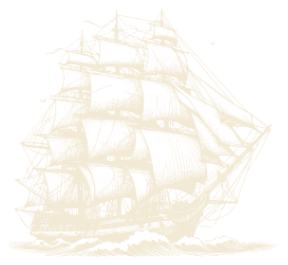
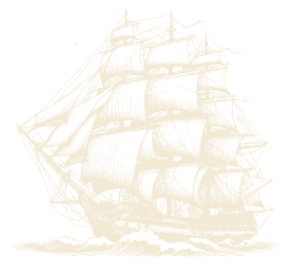
Replace watercolor mug clink with cream line-art toast, sail ship left to right.

diff --git a/src/index.css b/src/index.css
@@ -884,35 +884,52 @@ select {
 
 .shows-cheers {
   position: absolute;
-  top: clamp(6.5rem, 14vh, 9.5rem);
+  top: clamp(5.5rem, 12vh, 8.5rem);
   left: clamp(0.35rem, 1.5vw, 1.25rem);
   z-index: 2;
-  display: flex;
-  align-items: flex-end;
-  justify-content: center;
-  gap: 0;
-  width: clamp(11.5rem, 24vw, 16.5rem);
+  display: grid;
+  grid-template-columns: 1fr 1fr;
+  align-items: end;
+  width: clamp(10.5rem, 22vw, 14.5rem);
+  pointer-events: none;
+  filter: drop-shadow(0 10px 18px rgba(0, 0, 0, 0.45));
+}
+
+.shows-cheers__spark-layer {
+  position: absolute;
+  inset: 0;
+  width: 100%;
+  height: 100%;
+  overflow: visible;
   pointer-events: none;
 }
 
-.shows-cheers__mug {
-  width: 52%;
+.shows-cheers__pint {
+  width: 108%;
   height: auto;
   display: block;
-  filter: drop-shadow(0 8px 16px rgba(0, 0, 0, 0.4));
+  overflow: visible;
   will-change: transform;
 }
 
-.shows-cheers__mug--left {
-  transform-origin: 70% 90%;
-  margin-right: -0.35rem;
-  animation: mug-clink-left 3.6s cubic-bezier(0.45, 0.05, 0.25, 1) infinite;
+.shows-cheers__pint--left {
+  justify-self: end;
+  margin-right: -12%;
+  transform-origin: 75% 90%;
+  animation: cheers-toast-left 4.8s cubic-bezier(0.4, 0.05, 0.2, 1) infinite;
 }
 
-.shows-cheers__mug--right {
-  transform-origin: 30% 90%;
-  margin-left: -0.35rem;
-  animation: mug-clink-right 3.6s cubic-bezier(0.45, 0.05, 0.25, 1) infinite;
+.shows-cheers__pint--right {
+  justify-self: start;
+  margin-left: -12%;
+  transform-origin: 25% 90%;
+  animation: cheers-toast-right 4.8s cubic-bezier(0.4, 0.05, 0.2, 1) infinite;
+}
+
+.shows-cheers__sparks {
+  transform-origin: 110px 50px;
+  opacity: 0;
+  animation: cheers-spark 4.8s ease-out infinite;
 }
 
 .shows-page > .page-hero,
@@ -1476,26 +1493,26 @@ select {
 
 @keyframes ship-sail {
   0% {
-    transform: translate(92vw, 4%) rotate(-3deg);
+    transform: translate(-18vw, 4%) rotate(3deg);
     opacity: 0;
   }
   6% {
     opacity: 0.42;
   }
   25% {
-    transform: translate(68vw, 26%) rotate(2deg);
+    transform: translate(16vw, 26%) rotate(-2deg);
   }
   50% {
-    transform: translate(42vw, 52%) rotate(-2deg);
+    transform: translate(42vw, 52%) rotate(2deg);
   }
   75% {
-    transform: translate(16vw, 78%) rotate(1.5deg);
+    transform: translate(68vw, 78%) rotate(-1.5deg);
   }
   92% {
     opacity: 0.42;
   }
   100% {
-    transform: translate(-18vw, 108%) rotate(-3deg);
+    transform: translate(92vw, 108%) rotate(3deg);
     opacity: 0;
   }
 }
@@ -1527,43 +1544,64 @@ select {
   }
 }
 
-@keyframes mug-clink-left {
+@keyframes cheers-toast-left {
   0%,
-  18% {
-    transform: rotate(-14deg) translate3d(0, 0, 0);
+  12% {
+    transform: rotate(-10deg) translate3d(-4px, 2px, 0);
   }
-  42% {
-    transform: rotate(-3deg) translate3d(8%, -2%, 0);
+  38% {
+    transform: rotate(-3deg) translate3d(4px, -4px, 0);
   }
-  50% {
-    transform: rotate(1deg) translate3d(12%, -3%, 0);
+  46% {
+    transform: rotate(0deg) translate3d(7px, -6px, 0);
   }
-  58% {
-    transform: rotate(-2deg) translate3d(7%, -1%, 0);
+  52% {
+    transform: rotate(-1deg) translate3d(5px, -4px, 0);
   }
-  72%,
+  68%,
   100% {
-    transform: rotate(-14deg) translate3d(0, 0, 0);
+    transform: rotate(-10deg) translate3d(-4px, 2px, 0);
   }
 }
 
-@keyframes mug-clink-right {
+@keyframes cheers-toast-right {
   0%,
-  18% {
-    transform: rotate(14deg) translate3d(0, 0, 0);
+  12% {
+    transform: rotate(10deg) translate3d(4px, 2px, 0);
   }
-  42% {
-    transform: rotate(3deg) translate3d(-8%, -2%, 0);
+  38% {
+    transform: rotate(3deg) translate3d(-4px, -4px, 0);
   }
-  50% {
-    transform: rotate(-1deg) translate3d(-12%, -3%, 0);
+  46% {
+    transform: rotate(0deg) translate3d(-7px, -6px, 0);
   }
-  58% {
-    transform: rotate(2deg) translate3d(-7%, -1%, 0);
+  52% {
+    transform: rotate(1deg) translate3d(-5px, -4px, 0);
   }
-  72%,
+  68%,
   100% {
-    transform: rotate(14deg) translate3d(0, 0, 0);
+    transform: rotate(10deg) translate3d(4px, 2px, 0);
+  }
+}
+
+@keyframes cheers-spark {
+  0%,
+  42% {
+    opacity: 0;
+    transform: scale(0.35);
+  }
+  46% {
+    opacity: 1;
+    transform: scale(1.15);
+  }
+  52% {
+    opacity: 0.75;
+    transform: scale(1);
+  }
+  62%,
+  100% {
+    opacity: 0;
+    transform: scale(1.35);
   }
 }
 
@@ -1607,8 +1645,8 @@ select {
   .media-ship__img {
     animation: none !important;
     top: 8%;
-    right: 4%;
-    left: auto;
+    left: 4%;
+    right: auto;
     opacity: 0.28;
     transform: none;
   }
@@ -1618,8 +1656,22 @@ select {
     animation: none !important;
   }
 
-  .shows-cheers__mug--left,
-  .shows-cheers__mug--right {
+  .shows-cheers__pint--left,
+  .shows-cheers__pint--right,
+  .shows-cheers__sparks {
     animation: none !important;
+  }
+
+  .shows-cheers__pint--left {
+    transform: rotate(-6deg);
+  }
+
+  .shows-cheers__pint--right {
+    transform: rotate(6deg);
+  }
+
+  .shows-cheers__sparks {
+    opacity: 0.55;
+    transform: scale(0.9);
   }
 }

diff --git a/src/components/CheersToast.tsx b/src/components/CheersToast.tsx
@@ -1,0 +1,138 @@
+/** Decorative toasting pints — cream line art to match the Media ship. */
+export function CheersToast() {
+  return (
+    <div className="shows-cheers" aria-hidden="true">
+      <svg
+        className="shows-cheers__spark-layer"
+        viewBox="0 0 220 160"
+        width="220"
+        height="160"
+        fill="none"
+        xmlns="http://www.w3.org/2000/svg"
+      >
+        <g className="shows-cheers__sparks">
+          <circle cx="110" cy="52" r="2.2" fill="#f3ead6" />
+          <circle cx="98" cy="44" r="1.4" fill="#e4c76b" />
+          <circle cx="122" cy="46" r="1.5" fill="#e4c76b" />
+          <circle cx="104" cy="58" r="1.1" fill="#b8e0b8" />
+          <circle cx="116" cy="60" r="1.1" fill="#b8e0b8" />
+          <path
+            d="M110 38 L111.2 44 L117 45 L112.4 48.5 L114 54 L110 50.5 L106 54 L107.6 48.5 L103 45 L108.8 44 Z"
+            fill="#e4c76b"
+            opacity="0.9"
+          />
+        </g>
+      </svg>
+
+      <svg
+        className="shows-cheers__pint shows-cheers__pint--left"
+        viewBox="0 0 120 160"
+        width="120"
+        height="160"
+        fill="none"
+        xmlns="http://www.w3.org/2000/svg"
+      >
+        <defs>
+          <linearGradient id="cheers-beer-l" x1="0" y1="0" x2="0" y2="1">
+            <stop offset="0%" stopColor="#e8c76a" stopOpacity="0.55" />
+            <stop offset="55%" stopColor="#c9a84a" stopOpacity="0.4" />
+            <stop offset="100%" stopColor="#8a7340" stopOpacity="0.35" />
+          </linearGradient>
+          <linearGradient id="cheers-foam-l" x1="0" y1="0" x2="0" y2="1">
+            <stop offset="0%" stopColor="#f7f1e2" stopOpacity="0.95" />
+            <stop offset="100%" stopColor="#e8d9b0" stopOpacity="0.55" />
+          </linearGradient>
+        </defs>
+        <path
+          d="M42 58 C42 58 44 118 48 128 C52 138 62 142 74 142 C86 142 96 138 100 128 C104 118 106 58 106 58 Z"
+          fill="url(#cheers-beer-l)"
+        />
+        <path
+          d="M40 52 C46 42 58 40 68 44 C74 38 86 38 96 44 C104 48 108 54 108 54 L40 54 Z"
+          fill="url(#cheers-foam-l)"
+        />
+        <path
+          d="M40 50 L46 128 C48 138 58 146 74 146 C90 146 100 138 102 128 L108 50"
+          stroke="#f3ead6"
+          strokeWidth="2.2"
+          strokeLinecap="round"
+          strokeLinejoin="round"
+        />
+        <path
+          d="M38 50 C48 46 64 44 74 44 C84 44 100 46 110 50"
+          stroke="#f3ead6"
+          strokeWidth="2.2"
+          strokeLinecap="round"
+        />
+        <path
+          d="M40 68 C24 72 22 108 40 114"
+          stroke="#f3ead6"
+          strokeWidth="2.2"
+          strokeLinecap="round"
+        />
+        <path
+          d="M54 62 L56 126"
+          stroke="#f3ead6"
+          strokeWidth="1.2"
+          strokeLinecap="round"
+          opacity="0.35"
+        />
+      </svg>
+
+      <svg
+        className="shows-cheers__pint shows-cheers__pint--right"
+        viewBox="0 0 120 160"
+        width="120"
+        height="160"
+        fill="none"
+        xmlns="http://www.w3.org/2000/svg"
+      >
+        <defs>
+          <linearGradient id="cheers-beer-r" x1="0" y1="0" x2="0" y2="1">
+            <stop offset="0%" stopColor="#e8c76a" stopOpacity="0.55" />
+            <stop offset="55%" stopColor="#c9a84a" stopOpacity="0.4" />
+            <stop offset="100%" stopColor="#8a7340" stopOpacity="0.35" />
+          </linearGradient>
+          <linearGradient id="cheers-foam-r" x1="0" y1="0" x2="0" y2="1">
+            <stop offset="0%" stopColor="#f7f1e2" stopOpacity="0.95" />
+            <stop offset="100%" stopColor="#e8d9b0" stopOpacity="0.55" />
+          </linearGradient>
+        </defs>
+        <path
+          d="M14 58 C14 58 16 118 20 128 C24 138 34 142 46 142 C58 142 68 138 72 128 C76 118 78 58 78 58 Z"
+          fill="url(#cheers-beer-r)"
+        />
+        <path
+          d="M12 52 C18 42 30 40 40 44 C46 38 58 38 68 44 C76 48 80 54 80 54 L12 54 Z"
+          fill="url(#cheers-foam-r)"
+        />
+        <path
+          d="M12 50 L18 128 C20 138 30 146 46 146 C62 146 72 138 74 128 L80 50"
+          stroke="#f3ead6"
+          strokeWidth="2.2"
+          strokeLinecap="round"
+          strokeLinejoin="round"
+        />
+        <path
+          d="M10 50 C20 46 36 44 46 44 C56 44 72 46 82 50"
+          stroke="#f3ead6"
+          strokeWidth="2.2"
+          strokeLinecap="round"
+        />
+        <path
+          d="M80 68 C96 72 98 108 80 114"
+          stroke="#f3ead6"
+          strokeWidth="2.2"
+          strokeLinecap="round"
+        />
+        <path
+          d="M64 62 L62 126"
+          stroke="#f3ead6"
+          strokeWidth="1.2"
+          strokeLinecap="round"
+          opacity="0.35"
+        />
+      </svg>
+    </div>
+  )
+}

diff --git a/src/pages/Shows.tsx b/src/pages/Shows.tsx
@@ -1,4 +1,5 @@
 import { CelticButton } from '../components/CelticButton'
+import { CheersToast } from '../components/CheersToast'
 import { formatShowDate, pastShows, upcomingShows } from '../data/band'
 
 function ShowDate({ iso }: { iso: string }) {
@@ -20,22 +21,7 @@ export function Shows() {
 
   return (
     <div className="shows-page">
-      <div className="shows-cheers" aria-hidden="true">
-        <img
-          src={`${import.meta.env.BASE_URL}beer-mug-left.png`}
-          alt=""
-          className="shows-cheers__mug shows-cheers__mug--left"
-          width={180}
-          height={220}
-        />
-        <img
-          src={`${import.meta.env.BASE_URL}beer-mug-right.png`}
-          alt=""
-          className="shows-cheers__mug shows-cheers__mug--right"
-          width={183}
-          height={220}
-        />
-      </div>
+      <CheersToast />
 
       <header className="page-hero">
         <p className="section-label">Tour</p>